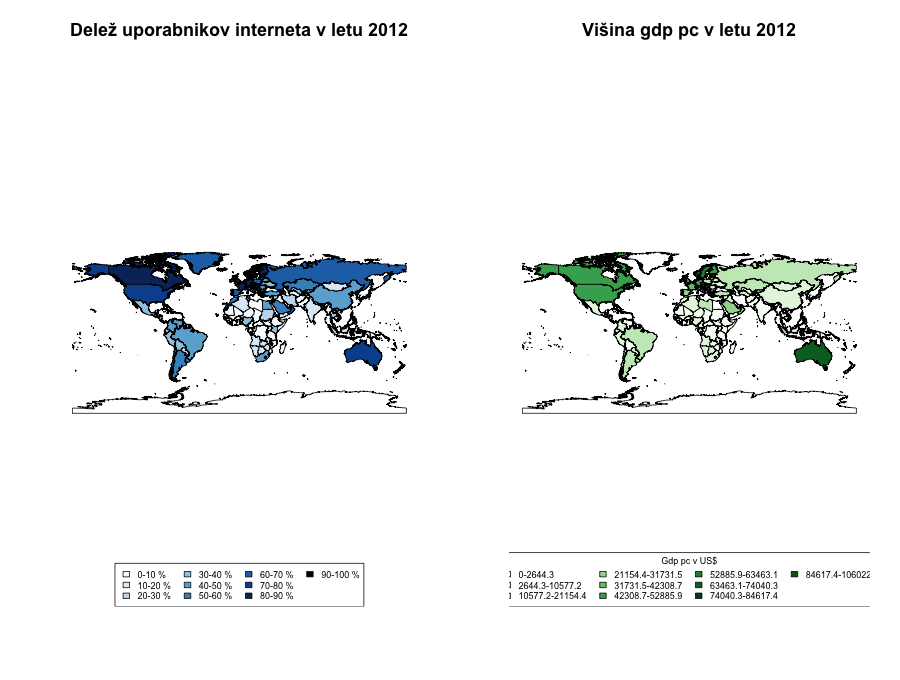
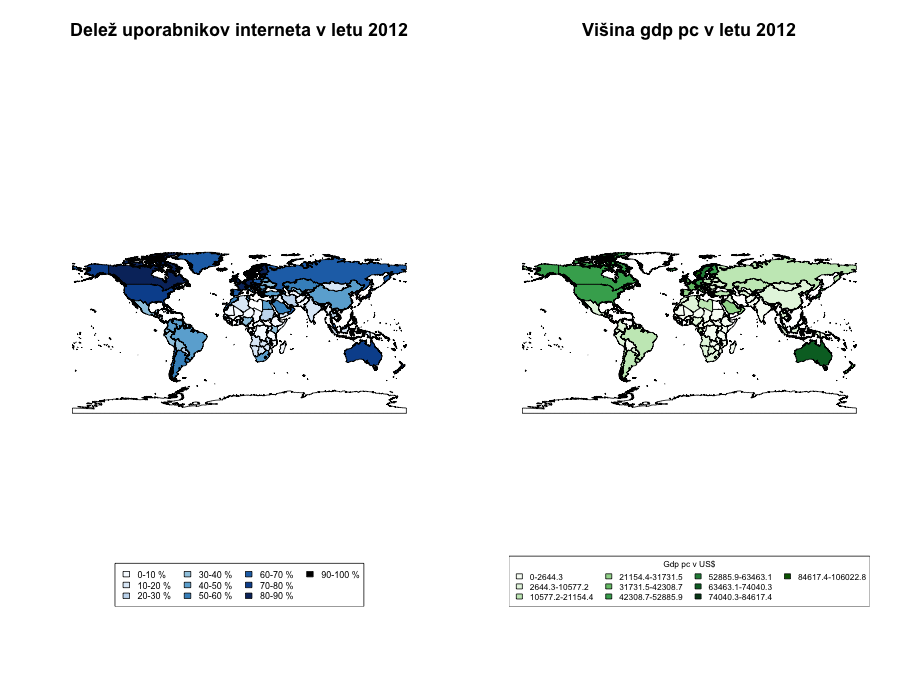
popravki na animacijah

Changed region(s): [[0.56, 0.8029, 0.9644, 0.8956]]

diff --git a/spreminjanje.uporabnikov.interneta.in.gdp.html b/spreminjanje.uporabnikov.interneta.in.gdp.html
@@ -44,7 +44,7 @@ title("Delež uporabnikov interneta v letu 2000", cex.main = 1.5,
     font.main = 2.5, col.main = "black")
 plot(svet, col = barvegdp00)
 legend("bottom", kateg2000, fill = bar, border = "black", 
-    cex = 0.75, ncol = 4, title = "Gdp pc v US$", xjust = 1)
+    cex = 0.7, ncol = 4, title = "Gdp pc v US$", xjust = 1)
 title("Višina gdp pc v letu 2000", cex.main = 1.5, font.main = 2.5, 
     col.main = "black")
 ani.record()
@@ -56,7 +56,7 @@ title("Delež uporabnikov interneta v letu 2001", cex.main = 1.5,
     font.main = 2.5, col.main = "black")
 plot(svet, col = barvegdp01)
 legend("bottom", kateg2001, fill = bar, border = "black", 
-    cex = 0.75, ncol = 4, title = "Gdp pc v US$", xjust = 1)
+    cex = 0.7, ncol = 4, title = "Gdp pc v US$", xjust = 1)
 title("Višina gdp pc v letu 2001", cex.main = 1.5, font.main = 2.5, 
     col.main = "black")
 ani.record()
@@ -68,7 +68,7 @@ title("Delež uporabnikov interneta v letu 2002", cex.main = 1.5,
     font.main = 2.5, col.main = "black")
 plot(svet, col = barvegdp02)
 legend("bottom", kateg2002, fill = bar, border = "black", 
-    cex = 0.75, ncol = 4, title = "Gdp pc v US$", xjust = 1)
+    cex = 0.7, ncol = 4, title = "Gdp pc v US$", xjust = 1)
 title("Višina gdp pc v letu 2002", cex.main = 1.5, font.main = 2.5, 
     col.main = "black")
 ani.record()
@@ -80,7 +80,7 @@ title("Delež uporabnikov interneta v letu 2003", cex.main = 1.5,
     font.main = 2.5, col.main = "black")
 plot(svet, col = barvegdp03)
 legend("bottom", kateg2003, fill = bar, border = "black", 
-    cex = 0.75, ncol = 4, title = "Gdp pc v US$", xjust = 1)
+    cex = 0.7, ncol = 4, title = "Gdp pc v US$", xjust = 1)
 title("Višina gdp pc v letu 2003", cex.main = 1.5, font.main = 2.5, 
     col.main = "black")
 ani.record()
@@ -92,7 +92,7 @@ title("Delež uporabnikov interneta v letu 2004", cex.main = 1.5,
     font.main = 2.5, col.main = "black")
 plot(svet, col = barvegdp04)
 legend("bottom", kateg2004, fill = bar, border = "black", 
-    cex = 0.75, ncol = 4, title = "Gdp pc v US$", xjust = 1)
+    cex = 0.7, ncol = 4, title = "Gdp pc v US$", xjust = 1)
 title("Višina gdp pc v letu 2004", cex.main = 1.5, font.main = 2.5, 
     col.main = "black")
 ani.record()
@@ -104,7 +104,7 @@ title("Delež uporabnikov interneta v letu 2005", cex.main = 1.5,
     font.main = 2.5, col.main = "black")
 plot(svet, col = barvegdp05)
 legend("bottom", kateg2005, fill = bar, border = "black", 
-    cex = 0.75, ncol = 4, title = "Gdp pc v US$", xjust = 1)
+    cex = 0.7, ncol = 4, title = "Gdp pc v US$", xjust = 1)
 title("Višina gdp pc v letu 2005", cex.main = 1.5, font.main = 2.5, 
     col.main = "black")
 ani.record()
@@ -116,7 +116,7 @@ title("Delež uporabnikov interneta v letu 2006", cex.main = 1.5,
     font.main = 2.5, col.main = "black")
 plot(svet, col = barvegdp06)
 legend("bottom", kateg2006, fill = bar, border = "black", 
-    cex = 0.75, ncol = 4, title = "Gdp pc v US$", xjust = 1)
+    cex = 0.7, ncol = 4, title = "Gdp pc v US$", xjust = 1)
 title("Višina gdp pc v letu 2006", cex.main = 1.5, font.main = 2.5, 
     col.main = "black")
 ani.record()
@@ -128,7 +128,7 @@ title("Delež uporabnikov interneta v letu 2007", cex.main = 1.5,
     font.main = 2.5, col.main = "black")
 plot(svet, col = barvegdp07)
 legend("bottom", kateg2007, fill = bar, border = "black", 
-    cex = 0.75, ncol = 4, title = "Gdp pc v US$", xjust = 1)
+    cex = 0.7, ncol = 4, title = "Gdp pc v US$", xjust = 1)
 title("Višina gdp pc v letu 2007", cex.main = 1.5, font.main = 2.5, 
     col.main = "black")
 ani.record()
@@ -140,7 +140,7 @@ title("Delež uporabnikov interneta v letu 2008", cex.main = 1.5,
     font.main = 2.5, col.main = "black")
 plot(svet, col = barvegdp08)
 legend("bottom", kateg2008, fill = bar, border = "black", 
-    cex = 0.75, ncol = 4, title = "Gdp pc v US$", xjust = 1)
+    cex = 0.7, ncol = 4, title = "Gdp pc v US$", xjust = 1)
 title("Višina gdp pc v letu 2008", cex.main = 1.5, font.main = 2.5, 
     col.main = "black")
 ani.record()
@@ -152,7 +152,7 @@ title("Delež uporabnikov interneta v letu 2009", cex.main = 1.5,
     font.main = 2.5, col.main = "black")
 plot(svet, col = barvegdp09)
 legend("bottom", kateg2009, fill = bar, border = "black", 
-    cex = 0.75, ncol = 4, title = "Gdp pc v US$", xjust = 1)
+    cex = 0.7, ncol = 4, title = "Gdp pc v US$", xjust = 1)
 title("Višina gdp pc v letu 2009", cex.main = 1.5, font.main = 2.5, 
     col.main = "black")
 ani.record()
@@ -164,7 +164,7 @@ title("Delež uporabnikov interneta v letu 2010", cex.main = 1.5,
     font.main = 2.5, col.main = "black")
 plot(svet, col = barvegdp10)
 legend("bottom", kateg2010, fill = bar, border = "black", 
-    cex = 0.75, ncol = 4, title = "Gdp pc v US$", xjust = 1)
+    cex = 0.7, ncol = 4, title = "Gdp pc v US$", xjust = 1)
 title("Višina gdp pc v letu 2010", cex.main = 1.5, font.main = 2.5, 
     col.main = "black")
 ani.record()
@@ -176,7 +176,7 @@ title("Delež uporabnikov interneta v letu 2011", cex.main = 1.5,
     font.main = 2.5, col.main = "black")
 plot(svet, col = barvegdp11)
 legend("bottom", kateg2011, fill = bar, border = "black", 
-    cex = 0.75, ncol = 4, title = "Gdp pc v US$", xjust = 1)
+    cex = 0.7, ncol = 4, title = "Gdp pc v US$", xjust = 1)
 title("Višina gdp pc v letu 2011", cex.main = 1.5, font.main = 2.5, 
     col.main = "black")
 ani.record()
@@ -188,7 +188,7 @@ title("Delež uporabnikov interneta v letu 2012", cex.main = 1.5,
     font.main = 2.5, col.main = "black")
 plot(svet, col = barvegdp12)
 legend("bottom", kateg2012, fill = bar, border = "black", 
-    cex = 0.75, ncol = 4, title = "Gdp pc v US$", xjust = 1)
+    cex = 0.7, ncol = 4, title = "Gdp pc v US$", xjust = 1)
 title("Višina gdp pc v letu 2012", cex.main = 1.5, font.main = 2.5, 
     col.main = "black")
 ani.record()
@@ -200,7 +200,7 @@ title("Delež uporabnikov interneta v letu 2013", cex.main = 1.5,
     font.main = 2.5, col.main = "black")
 plot(svet, col = barvegdp13)
 legend("bottom", kateg2013, fill = bar, border = "black", 
-    cex = 0.77, ncol = 4, title = "Gdp pc v US$", xjust = 1)
+    cex = 0.7, ncol = 4, title = "Gdp pc v US$", xjust = 1)
 title("Višina gdp pc v letu 2013", cex.main = 1.5, font.main = 2.5, 
     col.main = "black")
 ani.record()

diff --git a/porocilo/porocilo.tex b/porocilo/porocilo.tex
@@ -129,7 +129,7 @@ Na četrtem zemljevidu je pa vidna primerjava med višino GDP pc ter deležem up
 \section{Napredna analiza podatkov}
 \begin{center}
 \begin{figure}
-  \animategraphics[controls, loop, width=1.2\linewidth]{1}{../slike/animacija}{}{}
+  \animategraphics[controls, loop, autoplay, width=1.2\linewidth]{1}{../slike/animacija}{}{}
 \end{figure}
 
 \end{center}
